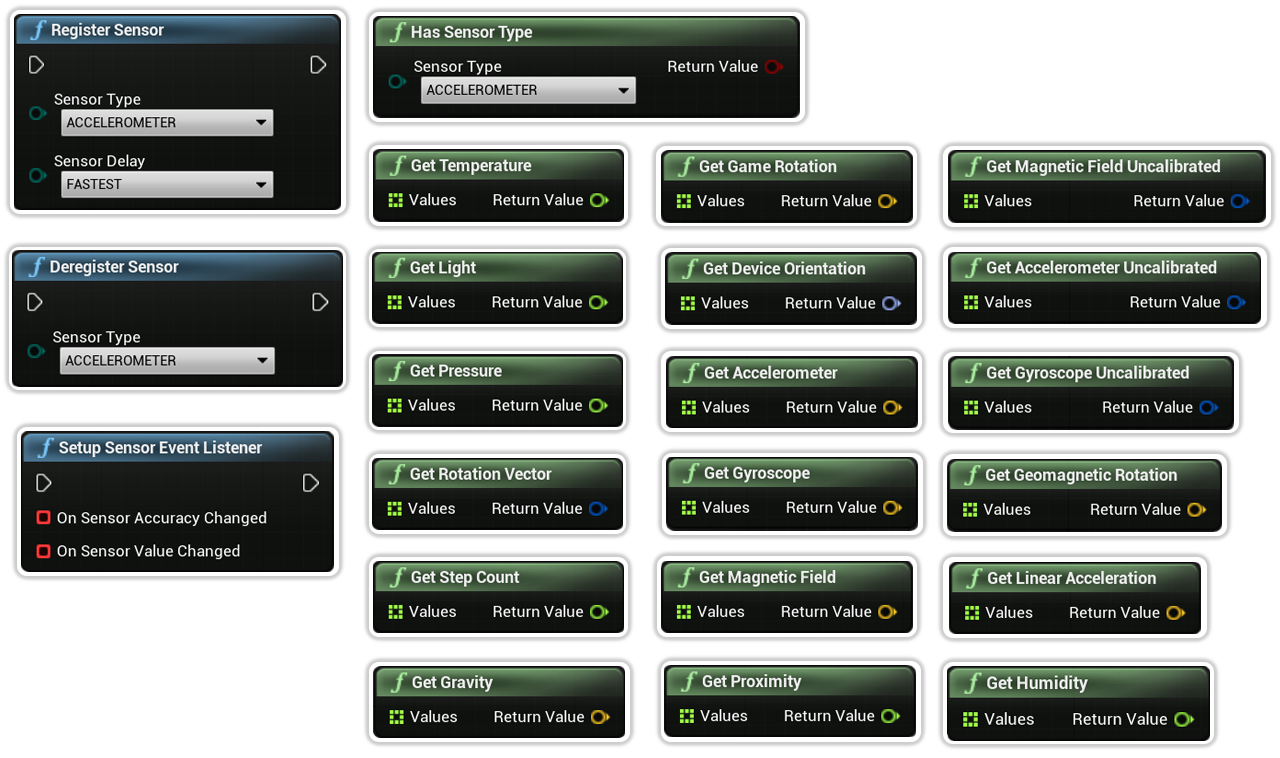
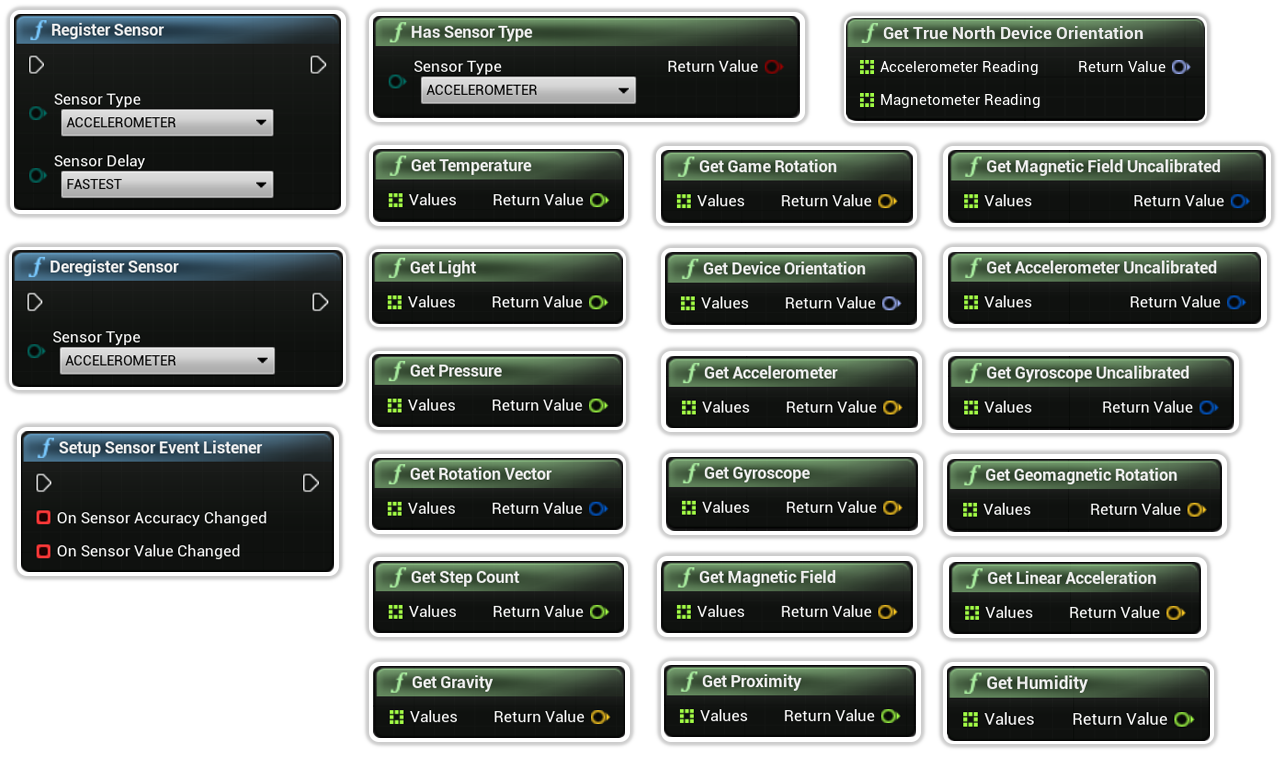
get true north device orientation

Changed region(s): [[0.6562, 0.0, 0.9688, 0.1821]]

diff --git a/plugins/android-native/sensors/supporting_nodes.html b/plugins/android-native/sensors/supporting_nodes.html
@@ -488,6 +488,71 @@
                             style="max-width: 70%;">
                     </div>
                 </div>
+
+                <div class="container"
+                    style="margin-left: 0px; padding-left: 0px; margin-bottom: 20px; margin-top: 20px; margin-right: 20px;">
+                    <h1 class="h3 text-white-shadow">Get True North Device Orientation</h1>
+                </div>
+                <div class="container" style="margin-left: 0px; padding-left: 0px;">
+                    <div class="info">
+                        <p class="content">
+                            Produces a FRotator representing the rotation in real world space towards magnetic north.
+                            This node corresponds to the <span style="font-weight: 500">ACCELEROMETER</span> and <span style="font-weight: 500">MAGNETIC_FIELD</span> sensor.
+                        </p>
+                        <p class="content">
+                            Because this node requires two sensor readings, we have provided an example below to assist you in one way you can make use of it.
+                            It is recommended that you first take a look at <a href="example.html">The Example Setup</a> documentation first to get a basic understanding on how to make use of this plugin, otherwise the below example may be overwhelming.
+                        </p>
+                        <p class="content" style="margin-bottom: 0rem;">
+                            <span style="font-weight: 500">NOTE: </span>Depending on your applications orientation (portrait or landscape) you may want to swap the pitch and roll values.
+                        </p>
+                    </div>
+                </div>
+                <div class="container" style="margin-left: 0px; padding-left: 0px;">
+                    <div style="display: flex; justify-content: center; align-items: center;">
+                        <img src="../../../images/AndroidSensors/Android_Sensors_Plugin_GetTrueNorthDeviceOrientation.png"
+                            style="max-width: 70%;">
+                    </div>
+                </div>
+                <div class="container"
+                    style="margin-left: 0px; padding-left: 0px; margin-bottom: 5px; margin-top: 10px; margin-right: 20px; border-top-left-radius: 20px;">
+                    <h1 class="list-group-item">Example</h1>
+                </div>
+                <div class="container"
+                    style="margin-left: 0px; padding-left: 0px; padding-top: 1px; padding-bottom: 1px;">
+                    <div style="display: flex; justify-content: center; align-items: center;">
+                        <img src="../../../images/AndroidSensors/Example_Android_Sensors_Get_TN_Orientation.PNG"
+                            style="max-width: 95%;" data-toggle="modal" data-target="#Modal1">
+                    </div>
+                </div>
+                <!-- Modal -->
+                <div class="modal fade" id="Modal1" tabindex="-1" role="dialog" aria-labelledby="myModalLabel">
+                    <div class="modal-dialog modal-dialog-centered" role="document">
+                        <div id="modalBody1">
+                            <div class="modal-body">
+                                <img id="modal1-image"
+                                    src="../../../images/AndroidSensors/Example_Android_Sensors_Get_TN_Orientation.PNG"
+                                    alt="Your Image">
+                            </div>
+                        </div>
+                    </div>
+                </div>
+                <div style="padding-top: 20px">
+                    <div class="container" style="margin-left: 0px; padding-left: 0px; position: relative;">
+                        <div class="info" style="border-bottom-left-radius: 20px;">
+                            <p class="content">
+                                You must check the device has and then activate the <span style="font-weight: 500">ACCELEROMETER</span> and <span style="font-weight: 500">MAGNETIC_FIELD</span> sensors.
+                            </p>
+                            <p class="content">
+                                In the above example, you can see we save both the sensor values when they change.
+                                Then, when a value has been updated, we then calculate the latest orientation and save it for use.
+                            </p>
+                            <p class="content" style="margin-bottom: 0rem;">
+                                Becuase we are making use of a rather noisy sensor (MAGNETIC_FIELD), we need to keep track of when this sensor is no longer accurate and would need recalibration.
+                            </p>
+                        </div>
+                    </div>
+                </div>
                 
                 <div style="margin-bottom: 300px">
                 </div>

diff --git a/script.js b/script.js
@@ -79,6 +79,34 @@ if (news) {
         <div class="news-group-item">
             <div class="row">
                 <div class="col-auto" style="padding-right: 0">
+                    <img class="news-badge" src="../../../images/AndroidSensors/Android_Sensors_Plugin_Logo.png">
+                </div>
+                <div class="col" style="padding-left: 10px">
+                    <div class="news-title">Release Notes</div>
+                    <div class="news-sub-title">2024-04-26</div>
+                </div>
+            </div>
+        </div>
+        <div class="news-info">
+            <div class="news-info-title">
+                Android Sensors Release Notes
+            </div>
+            <div class="news-info-details">
+                <ul>
+                    <li>Added New Blueprint Node</li>
+                    <li>Get True North Device Orientation</li>
+                    <li>Uses Two Sensors</li>
+                </ul>
+            </div>
+            <a class="btn-learn-more" href="../../../plugins/android-native/sensors/overview.html?utm_source=News">Learn more</a>
+        </div>
+    </div>
+</div>
+  <div class="news-card expanded">
+    <div class="news-container">
+        <div class="news-group-item">
+            <div class="row">
+                <div class="col-auto" style="padding-right: 0">
                     <img class="news-badge" src="../../../images/Admob/Admob_Plugin_Logo.png">
                 </div>
                 <div class="col" style="padding-left: 10px">
@@ -218,39 +246,6 @@ if (news) {
               </div>
           </div>
           <a class="btn-learn-more" href="../../../plugins/advertising/admob/overview.html?utm_source=News">Learn more</a>
-      </div>
-  </div>
-</div>
-<div class="news-card">
-  <div class="news-container">
-      <div class="news-group-item">
-          <div class="row">
-              <div class="col-auto" style="padding-right: 0">
-                  <img class="news-badge" src="../../../images/PlayBaseServices/GooglePlay_BaseServices_Plugin_Logo.png">
-              </div>
-              <div class="col" style="padding-left: 10px">
-                  <div class="news-title">New Unreal Engine Plugin</div>
-                  <div class="news-sub-title">2024-02-02</div>
-              </div>
-          </div>
-      </div>
-      
-      <div class="news-info">
-          <div class="row">
-              <div class="col-4">
-                  <img style="max-height: 156px; padding-top: 10px; padding-bottom: 10px" src="../../../images/general/PlayBaseServices_Thumbnail.png">
-              </div>
-              <div class="col-8" style="display:flex; align-items: center; margin: 0">
-                  <div class="news-info-details" style="font-weight: 500">
-                      <ul>
-                          <li>Update Play library V2</li>
-                          <li>Improved Features</li>
-                          <li>Admob Compatible</li>
-                      </ul>
-                  </div>
-              </div>
-          </div>
-          <a class="btn-learn-more" href="../../../plugins/google-play-services/base-services/overview.html?utm_source=News">Learn more</a>
       </div>
   </div>
 </div>

diff --git a/plugins/release/notes/android_sensors.html b/plugins/release/notes/android_sensors.html
@@ -120,6 +120,39 @@
                                         <img class="news-badge" src="../../../images/AndroidSensors/Android_Sensors_Plugin_Logo.png">
                                     </div>
                                     <div class="col-9" style="padding-left: 10px">
+                                        <div class="news-title">Feature Release</div>
+                                        <div class="news-sub-title">2024-04-26</div>
+                                    </div>
+                                    <div class="col text-right" style="padding-left: 10px">
+                                        <div class="news-title">v1.1.0</div>
+                                    </div>
+                                </div>
+                            </div>
+                    
+                            <div class="news-info">
+                                <div class="row">
+                                    <div class="col-auto" style="display:flex; align-items: center; margin: 0">
+                                        <div class="news-info-details" style="font-weight: 500">
+                                            <ul>
+                                                <li>Added New Blueprint Node</li>
+                                                <li>Get True North Device Orientation</li>
+                                                <li>Makes use of both ACCELEROMETER and MAGNETIC_FIELD sensors</li>
+                                            </ul>
+                                        </div>
+                                    </div>
+                                </div>
+                            </div>
+                        </div>
+                    </div>
+                    <div style="padding: 10px"></div>
+                    <div class="news-card expanded">
+                        <div class="news-container">
+                            <div class="news-group-item">
+                                <div class="row">
+                                    <div class="col-auto" style="padding-right: 0">
+                                        <img class="news-badge" src="../../../images/AndroidSensors/Android_Sensors_Plugin_Logo.png">
+                                    </div>
+                                    <div class="col-9" style="padding-left: 10px">
                                         <div class="news-title">Initial Release</div>
                                         <div class="news-sub-title">2023-09-28</div>
                                     </div>
